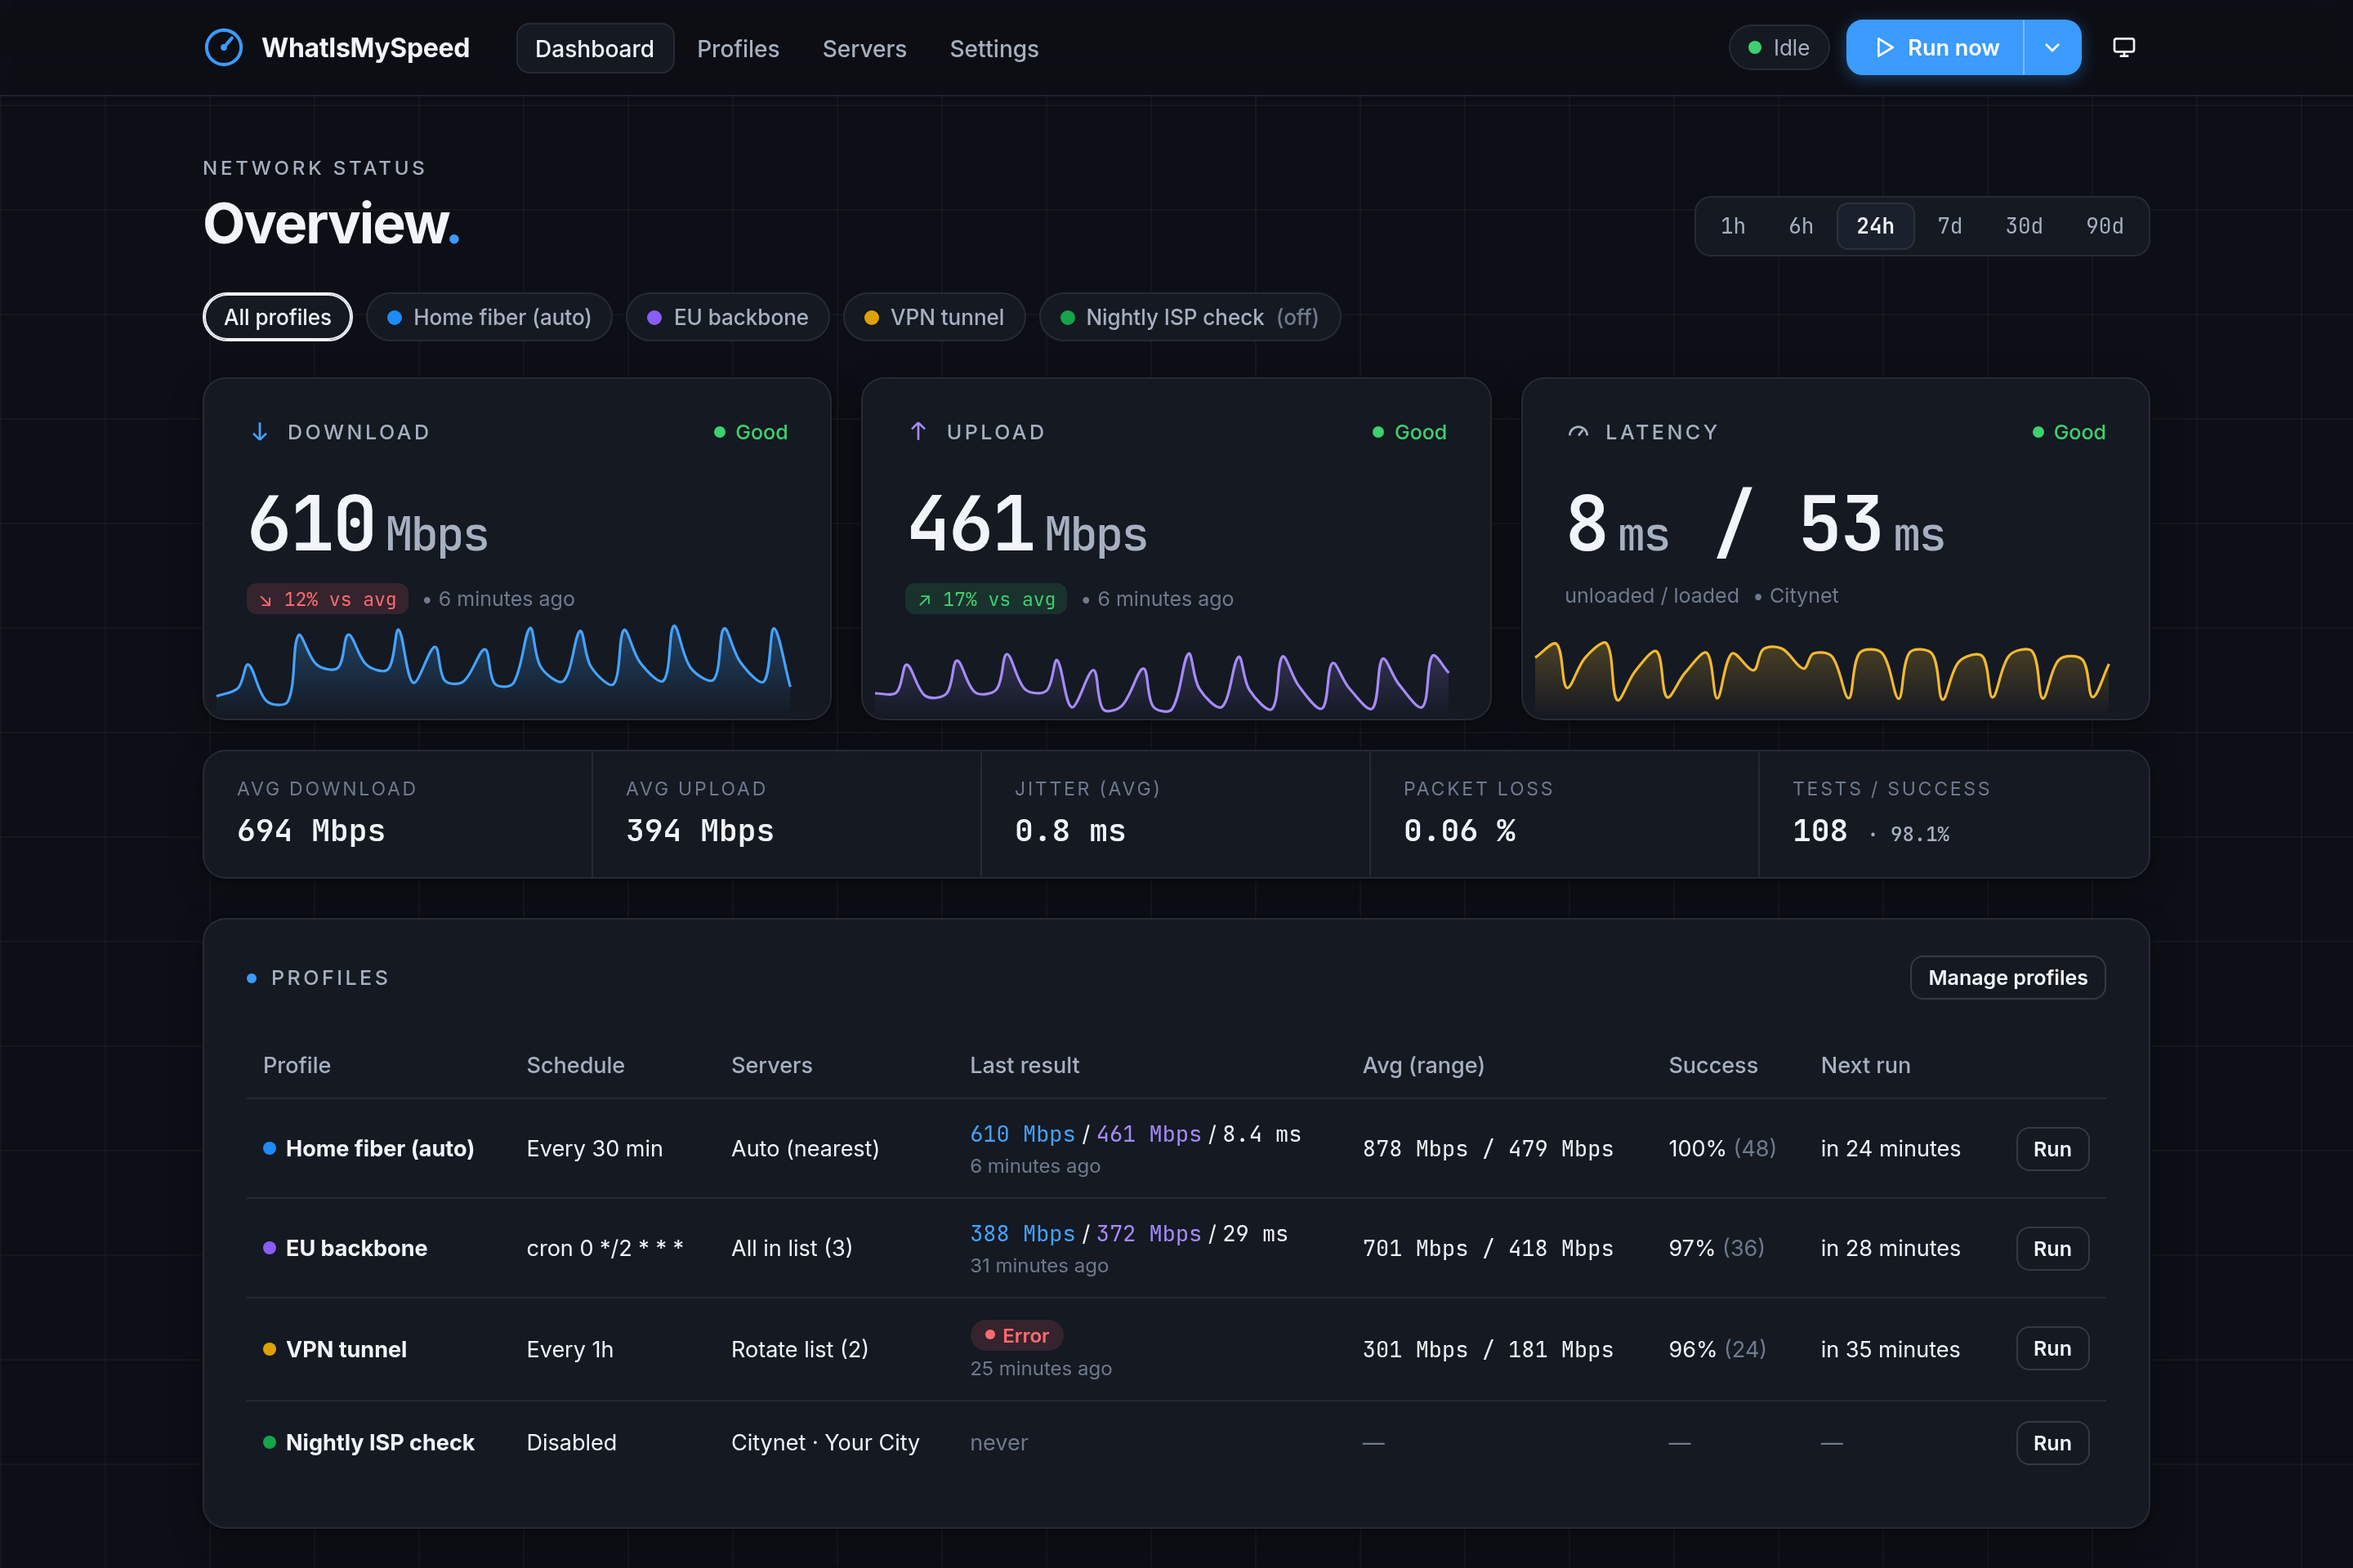
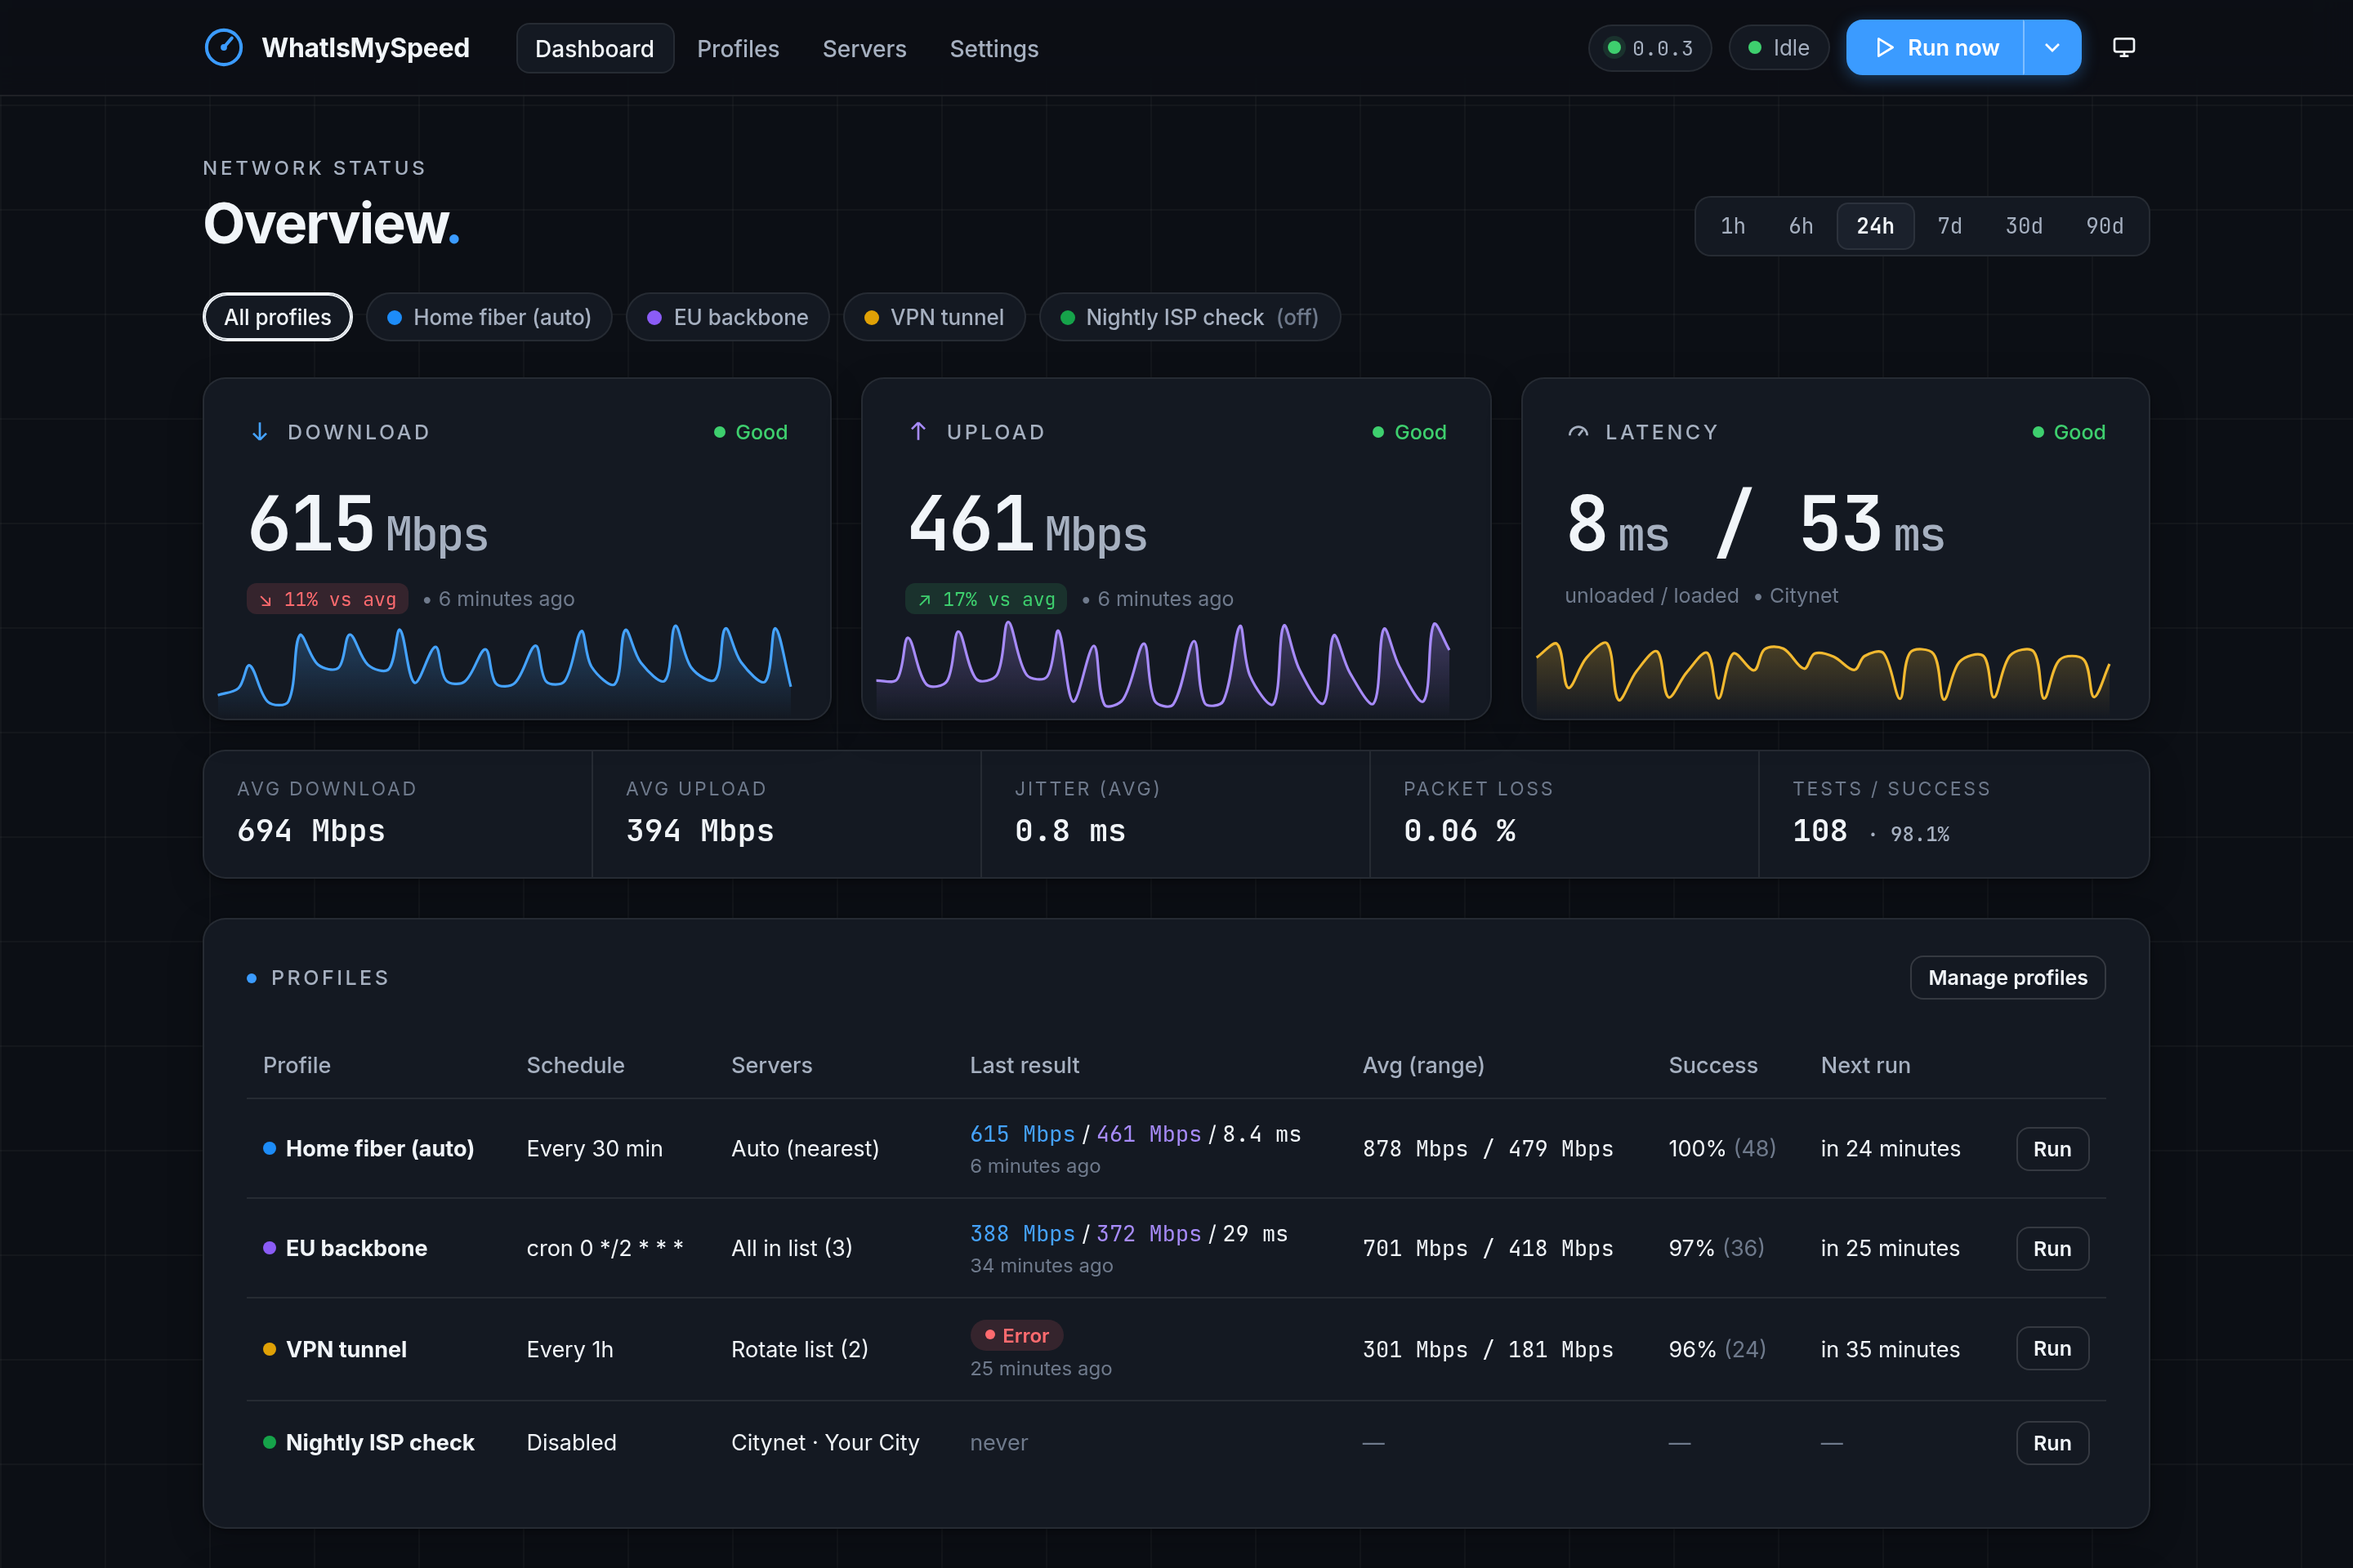
Release 0.0.3: version indicator in the header, table layout fixes
- Version number and update-status dot move from the footer to the header,
  next to the Idle/Testing status (green = latest, orange = update available,
  click for the release)
- Tables no longer always show a horizontal scrollbar (from d95b77c)
- Smoother sparklines and dense charts; current profile names in the table
- Refresh screenshots

diff --git a/public/app.js b/public/app.js
@@ -919,20 +919,20 @@ function showOoklaNotice() {
 async function loadVersion() {
   try {
     const quick = await api('/api/version?quick=1');
-    $('#versionText').textContent = `WhatIsMySpeed v${quick.current}`;
+    $('#versionText').textContent = quick.current;
     const v = quick.status === 'checking' ? await api('/api/version') : quick;
     const dot = $('#versionDot');
     dot.className = `vdot ${v.status === 'current' || v.status === 'outdated' ? v.status : ''}`;
-    $('#versionText').textContent = `WhatIsMySpeed v${v.current}`;
+    $('#versionText').textContent = v.current;
     const link = $('#versionLink');
     link.href = v.url;
     link.title = {
-      current: 'You are running the latest version',
-      outdated: `Version ${v.latest} is available. Click to see what's new`,
+      current: `Version ${v.current} is the latest version`,
+      outdated: `Version ${v.current}: ${v.latest} is available. Click to see what's new`,
       disabled: 'Update check is disabled',
     }[v.status] || `Couldn't check for updates${v.error ? ` (${v.error})` : ''}`;
-    if (v.status === 'outdated') $('#versionText').textContent += ` → v${v.latest} available`;
-  } catch { /* footer stays neutral */ }
+    link.setAttribute('aria-label', link.title);
+  } catch { /* indicator stays neutral */ }
 }
 
 async function init() {

diff --git a/public/index.html b/public/index.html
@@ -31,6 +31,9 @@
         <button data-view="settings">Settings</button>
       </nav>
       <div class="top-right">
+        <a class="pill ver" id="versionLink" href="https://github.com/joomkra/what-is-my-speed" target="_blank" rel="noopener" title="Checking for updates…">
+          <span class="vdot" id="versionDot"></span><span id="versionText"></span>
+        </a>
         <span class="pill" id="statusPill"><span class="led"></span><span class="ptxt">Idle</span></span>
         <div class="split" id="runSplit">
           <button class="btn primary" id="runAllBtn" title="Run all enabled profiles">
@@ -282,10 +285,6 @@
   </main>
 
   <footer class="foot">
-    <a id="versionLink" href="https://github.com/joomkra/what-is-my-speed" target="_blank" rel="noopener">
-      <span class="vdot" id="versionDot"></span><span id="versionText">WhatIsMySpeed</span>
-    </a>
-    <span class="muted">·</span>
     <span class="muted">Powered by the Ookla Speedtest CLI ·
       <a href="https://www.speedtest.net/about/eula" target="_blank" rel="noopener">EULA</a> ·
       <a href="https://www.speedtest.net/about/privacy" target="_blank" rel="noopener">Privacy</a></span>

diff --git a/public/styles.css b/public/styles.css
@@ -295,7 +295,9 @@ input[type='color'] { width: 42px; height: 36px; border: 1px solid var(--border-
 .foot { max-width: 1240px; margin: -40px auto 0; padding: 0 24px 40px; display: flex; gap: 10px; align-items: center; justify-content: center; flex-wrap: wrap; font-size: 12.5px; color: var(--text-3); }
 .foot a { color: inherit; }
 .foot a:hover { color: var(--text); }
-#versionLink { display: inline-flex; align-items: center; gap: 7px; font-family: var(--mono); }
+.pill.ver { font-family: var(--mono); font-size: 12.5px; text-decoration: none; }
+.pill.ver:hover { color: var(--text); border-color: var(--border-strong); text-decoration: none; }
+.pill.ver:empty, .pill.ver:has(#versionText:empty) { display: none; }
 .foot .bmc { flex-basis: 100%; display: flex; justify-content: center; margin-top: 6px; }
 .foot .bmc img { height: 40px; width: auto; display: block; transition: transform 0.15s; }
 .foot .bmc:hover img { transform: translateY(-1px); }

diff --git a/README.md b/README.md
@@ -76,11 +76,11 @@ Then go to **Docker → Add Container**, pick **what-is-my-speed** from the **Te
 - The WebUI is on port 3000. It's also available from the container's icon menu.
 - Unraid sets the timezone automatically.
 - To require a login, set **Basic auth password**.
-- To update, use **Check for Updates** on the Docker tab, or follow the orange dot in the dashboard footer.
+- To update, use **Check for Updates** on the Docker tab, or follow the orange dot next to the version number at the top of the dashboard.
 
 ### Updating
 
-The dot next to the version number at the bottom of the dashboard is green when you're on the newest version and
+The dot next to the version number at the top of the dashboard is green when you're on the newest version and
 orange when there's a newer one. To update:
 
 ```bash
@@ -110,7 +110,7 @@ Data, including the SQLite DB and Ookla's license acceptance, is stored in the `
 | `AUTH_USER` / `AUTH_PASSWORD` | – | Enables HTTP basic auth when a password is set (user defaults to `admin`) |
 | `DEFAULT_INTERVAL_MINUTES` | `30` | Interval of the profile created on first boot |
 | `DATA_DIR` | `/data` | Database location |
-| `UPDATE_CHECK` | `true` | Look up the newest `v*` tag on GitHub (cached for 6h). The footer dot turns green when you're up to date and orange when a newer version exists |
+| `UPDATE_CHECK` | `true` | Look up the newest `v*` tag on GitHub (cached for 6h). The dot next to the version number at the top of the dashboard turns green when you're up to date and orange when a newer version exists |
 | `UPDATE_CHECK_REPO` | `joomkra/what-is-my-speed` | Repository used for the update check |
 
 **Interface binding:** in Docker, the profile's interface and source-IP options only see the container's own interfaces. To use host interfaces such as `wg0`, set `network_mode: host` and remove the `ports:` block.
